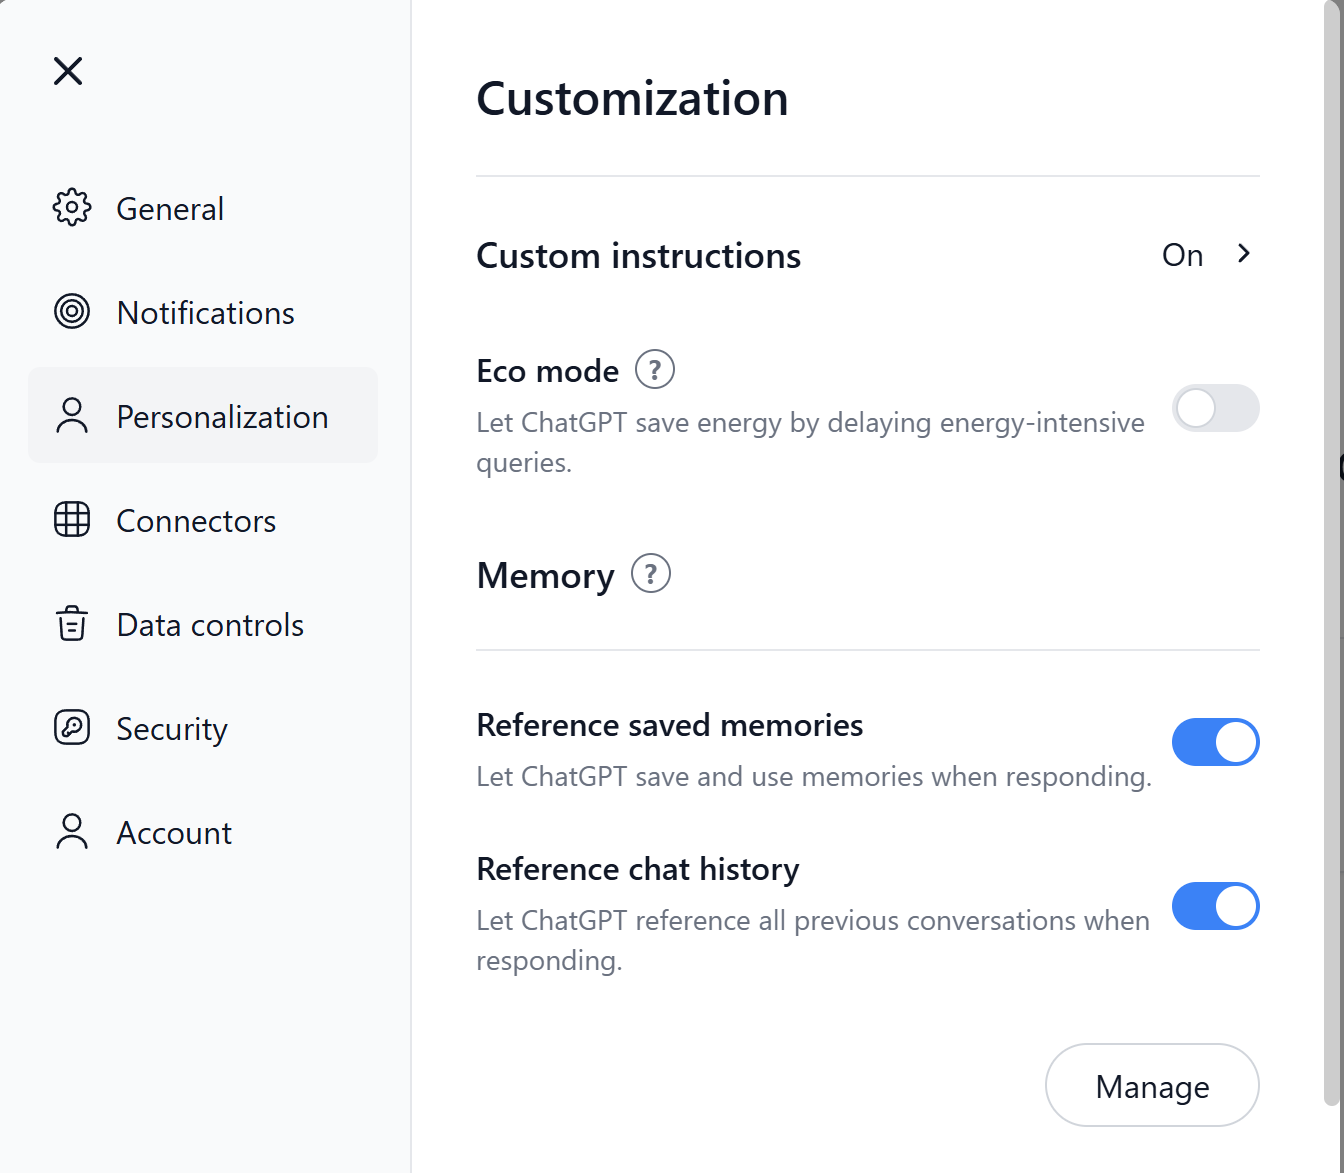
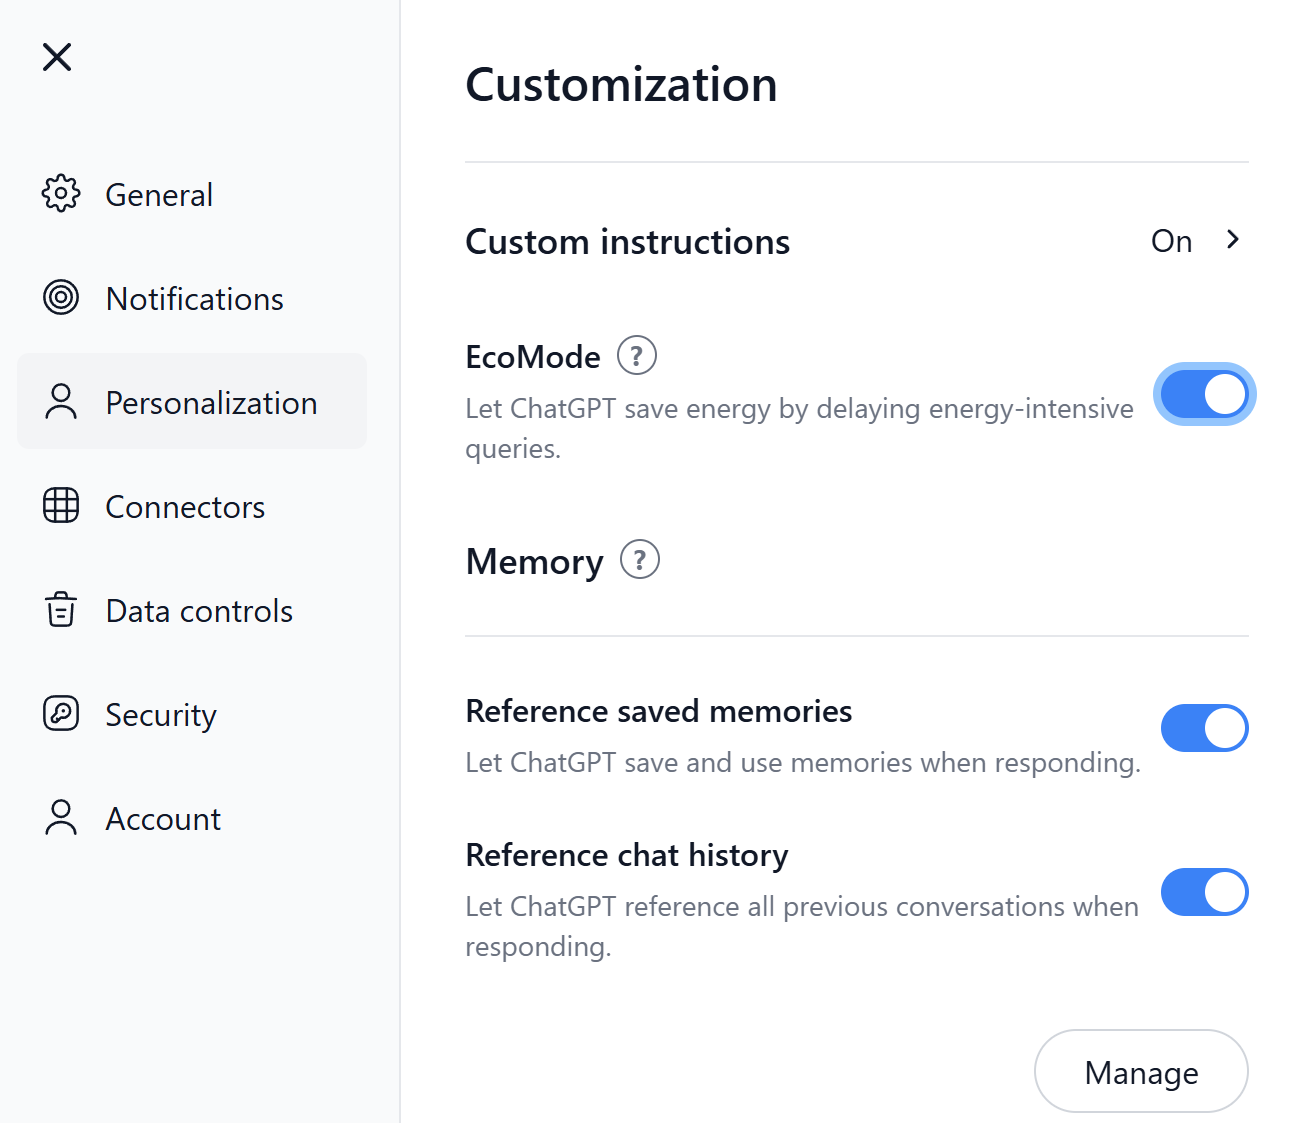
updated Q&A page

diff --git a/src/components/EcoModeFAQ.js b/src/components/EcoModeFAQ.js
@@ -74,51 +74,41 @@ const EcoModeFAQ = () => {
                 </p>
                 
                 <div className="bg-gray-50 dark:bg-gray-700 p-4 rounded-lg">
-                  <h3 className="font-medium mb-2 text-lg">Electricity Consumption</h3>
+                  <h3 className="font-medium mb-2 text-lg">Electricity Consumption & Carbon Emissions</h3>
                   <ul className="list-disc pl-5 space-y-2 text-gray-700 dark:text-gray-300">
                     <li>Each query typically uses between 0.3-0.4 watt-hours (Wh) of electricity</li>
-                    <li>A single short GPT-4o query consumes approximately 0.43 Wh</li>
-                    <li>According to OpenAI CEO Sam Altman, the average query uses about 0.34 Wh</li>
-                    <li>With approximately 700 million queries processed daily, this adds up to substantial energy usage</li>
+                    <li>According to OpenAI CEO Sam Altman, the average query uses about 0.34 Wh<sup><strong>1</strong></sup></li>
+                    <li>According to a scientific source, a single short GPT-4o query consumes approximately 0.42 Wh<sup><strong>2</strong></sup></li>
+                    <li>With over 1 billion queries processed daily, this adds up to substantial energy usage</li>
+                    <li>Based on the global average carbon intensity (445g CO₂/kWh)<sup><strong>3</strong></sup>, electricity used for a single query (0.42 Wh) equates to 0.19g of CO₂ per query</li>
                   </ul>
                 </div>
                 
                 <div className="bg-gray-50 dark:bg-gray-700 p-4 rounded-lg">
                   <h3 className="font-medium mb-2 text-lg">Water Usage</h3>
                   <ul className="list-disc pl-5 space-y-2 text-gray-700 dark:text-gray-300">
-                    <li>GPT-3 consumes approximately 500ml of water for 10-50 medium-length responses</li>
-                    <li>Water usage can be significantly higher in certain regions, with recent studies in Africa showing up to 60 liters of water consumption</li>
+                    <li>GPT-3 consumes approximately 500 ml of water for 10-50 medium-length responses<sup><strong>4</strong></sup></li>
+                    <li>Water usage can be significantly higher in certain regions depending on weather conditions and operational resources of each data center</li>
+                    <li>In the U.S., hot and arid regions like Arizona require more evaporative cooling than cool and dry regions like Wyoming with better water efficiency<sup><strong>4</strong></sup></li>
+                    <li>On a global scale, processing a 10-page report in GPT-4o in data centers from certain African countries can go up to 60 liters of water consumption<sup><strong>5</strong></sup></li>
                     <li>Water is primarily used for cooling data center infrastructure</li>
                   </ul>
                 </div>
                 
-                <div className="bg-gray-50 dark:bg-gray-700 p-4 rounded-lg">
-                  <h3 className="font-medium mb-2 text-lg">Carbon Emissions</h3>
-                  <ul className="list-disc pl-5 space-y-2 text-gray-700 dark:text-gray-300">
-                    <li>A single query (0.43 Wh) equates to approximately 0.00043 kWh</li>
-                    <li>Using the global average carbon intensity (400g CO₂/kWh), this results in about 0.17g of CO₂ per query</li>
-                    <li>Interestingly, research suggests that AI-generated writing may emit less carbon compared to human writing processes</li>
-                  </ul>
-                </div>
+
                 
                 <p className="text-gray-700 dark:text-gray-300">
                   Data centers running these AI models can consume as much electricity as small towns, highlighting the importance of energy efficiency measures like EcoMode.
                 </p>
                 
-                <p className="text-sm text-gray-500 dark:text-gray-400 italic">
-                  Sources: <a href="https://arxiv.org/abs/2505.09598" className="text-blue-600 dark:text-blue-400 hover:underline" target="_blank" rel="noopener noreferrer">arXiv:2505.09598</a>, 
-                  <a href="https://blog.samaltman.com/the-gentle-singularity" className="text-blue-600 dark:text-blue-400 hover:underline" target="_blank" rel="noopener noreferrer">Sam Altman's Blog</a>, 
-                  <a href="https://arxiv.org/abs/2304.03271" className="text-blue-600 dark:text-blue-400 hover:underline" target="_blank" rel="noopener noreferrer">arXiv:2304.03271</a>, 
-                  <a href="https://arxiv.org/abs/2412.03716" className="text-blue-600 dark:text-blue-400 hover:underline" target="_blank" rel="noopener noreferrer">arXiv:2412.03716</a>, 
-                  <a href="https://www.nature.com/articles/s41598-024-54271-x" className="text-blue-600 dark:text-blue-400 hover:underline" target="_blank" rel="noopener noreferrer">Nature Scientific Reports</a>
-                </p>
+
               </div>
             </div>
             
             <div id="how-it-works" className="scroll-mt-4">
               <h2 className="text-xl font-medium mb-3">How EcoMode works</h2>
               <p className="text-gray-700 dark:text-gray-300">
-              Lorem ipsum dolor sit amet, consectetur adipiscing elit, sed do eiusmod tempor incididunt ut labore et dolore magna aliqua.Lorem ipsum dolor sit amet, consectetur adipiscing elit, sed do eiusmod tempor incididunt ut labore et dolore magna aliqua.
+              When local, real-time energy demands are high, EcoMode selects better alternatives such as batching similar requests for latent mass-processing, rerouting prompts to energy-efficient data centers and regions, and selecting more energy-efficient models for different prompt types.
               </p>
             </div>
             
@@ -172,10 +162,40 @@ const EcoModeFAQ = () => {
                       </div>
                     </div>
                   </div>
+                  
+                  {/* Option 3 */}
+                  <div className="border rounded-lg overflow-hidden mt-8">
+                    <div className="bg-gray-50 dark:bg-gray-700 px-4 py-2 border-b">
+                      <h3 className="font-medium">Option 3: Click the Leaf Icon in Welcome Message</h3>
+                    </div>
+                    <div className="p-4">
+                      <p className="text-gray-700 dark:text-gray-300 mb-4">
+                        If EcoMode is turned off, you'll see a welcome message with a leaf icon. Simply click on the leaf icon in the welcome message to turn on EcoMode instantly.
+                      </p>
+                      <div className="flex justify-center">
+                        <div className="border rounded-lg overflow-hidden shadow-sm max-w-md">
+                          <img 
+                            src="/images/welcome-message.png" 
+                            alt="Welcome Message with EcoMode Leaf Icon" 
+                            className="w-full object-contain"
+                          />
+                        </div>
+                      </div>
+                    </div>
+                  </div>
                 </div>
                 
                 <p className="text-gray-700 dark:text-gray-300">
                   Your preference will be saved automatically and applied to all your future interactions. You can toggle this setting at any time based on your needs, switching between maximum performance and energy-efficient operation.
+                </p>
+                
+                <p className="text-sm text-gray-500 dark:text-gray-400 mt-6">
+                  <strong>Sources:</strong><br />
+                  <sup><strong>1</strong></sup> <a href="https://blog.samaltman.com/the-gentle-singularity" className="text-blue-600 dark:text-blue-400 hover:underline" target="_blank" rel="noopener noreferrer">https://blog.samaltman.com/the-gentle-singularity</a><br />
+                  <sup><strong>2</strong></sup> <a href="https://arxiv.org/abs/2505.09598" className="text-blue-600 dark:text-blue-400 hover:underline" target="_blank" rel="noopener noreferrer">https://arxiv.org/abs/2505.09598</a><br />
+                  <sup><strong>3</strong></sup> <a href="https://www.iea.org/reports/electricity-2025/emissions" className="text-blue-600 dark:text-blue-400 hover:underline" target="_blank" rel="noopener noreferrer">https://www.iea.org/reports/electricity-2025/emissions</a><br />
+                  <sup><strong>4</strong></sup> <a href="https://arxiv.org/abs/2304.03271" className="text-blue-600 dark:text-blue-400 hover:underline" target="_blank" rel="noopener noreferrer">https://arxiv.org/abs/2304.03271</a><br />
+                  <sup><strong>5</strong></sup> <a href="https://arxiv.org/abs/2412.03716" className="text-blue-600 dark:text-blue-400 hover:underline" target="_blank" rel="noopener noreferrer">https://arxiv.org/abs/2412.03716</a>
                 </p>
               </div>
             </div>
